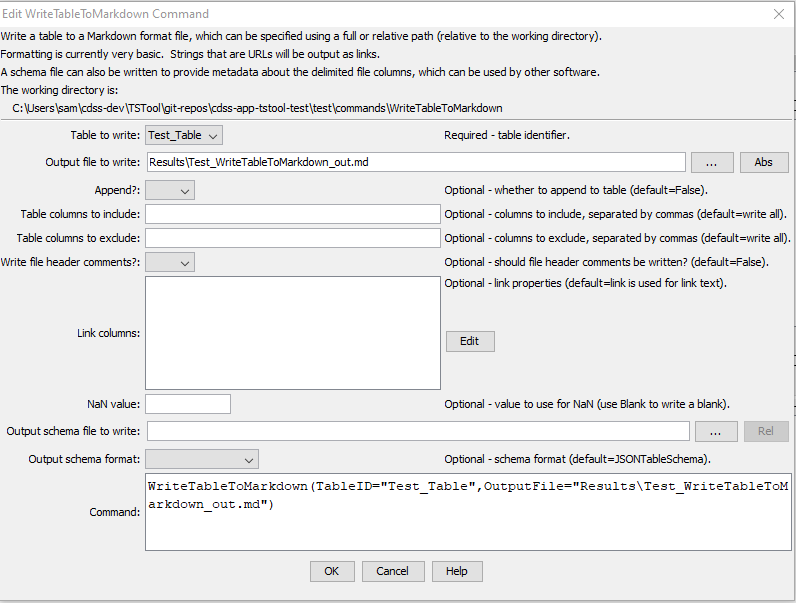
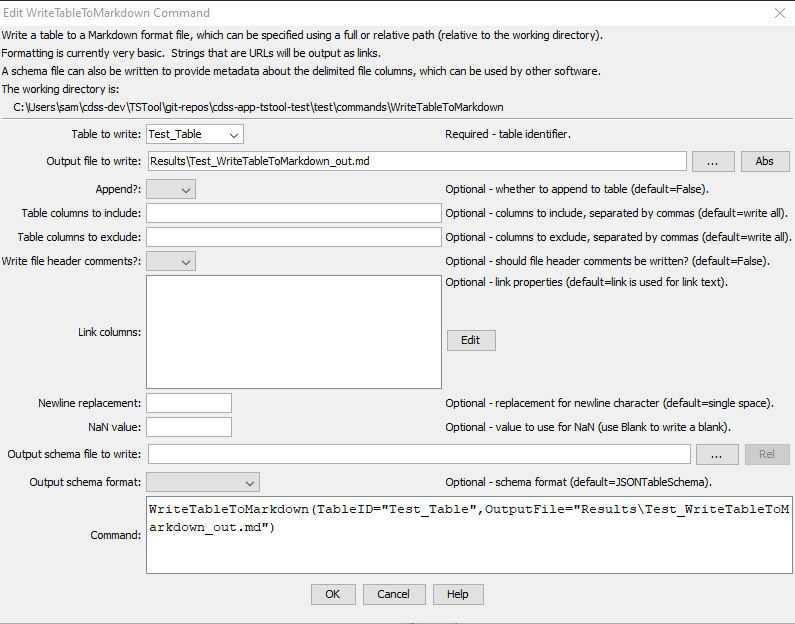
Update WriteTableToMarkdown documentation, issue #150
Also update release notes for some underlying enhancements and cleanup.

Changed region(s): [[0.0, 0.0, 1.0, 1.0], [0.0906, 0.5075, 0.1811, 0.5672]]

diff --git a/mkdocs-project/docs/getting-started/getting-started.md b/mkdocs-project/docs/getting-started/getting-started.md
@@ -136,7 +136,7 @@ Trying to use commands that depend on data connections that have not been initia
 **<p style="text-align: center;">
 TSTool At Startup, Waiting for Data Connections to be Initialized (<a href="../GUI_MainWait.png">see full-size image</a>)
 </p>**
- 
+
 The following figure illustrates the main TSTool interface after data connections are initialized.
 The interface is divided into three main areas:
 
@@ -181,7 +181,7 @@ To select time series, perform the following steps:
         The DateValue input type is the default.
         More specific input types (e.g., HydroBase) may be the default if enabled.
         See the appropriate data store or input type appendix for more information.<br><br>
-        Depending on the input type, some of the remaining selection choices described below may be disabled or limited.  
+        Depending on the input type, some of the remaining selection choices described below may be disabled or limited.
 2.  **Select the time series data type**.  Select the ***Data type*** (if appropriate for the input type).
     example, select ***Streamflow*** or ***Diversion*** if using a HydroBase input type.
     For some input types, the data type will be listed as ***Auto***,
@@ -285,7 +285,7 @@ A summary of the pop-up menu choices is as follows:
 Commands are numbered to simplify editing.
 The command list also includes left and right gutters to display icons that help with error handling.
 The following figure illustrates a command with an error (the first time series
-identifier has been edited to include an x, resulting in an invalid identifier). 
+identifier has been edited to include an x, resulting in an invalid identifier).
 
 **<p style="text-align: center;">
 ![Command List Illustrating Error](CommandListError.png)
@@ -526,6 +526,7 @@ Global properties should be used with care because they may impact multiple comm
 | `TSEnsembleResultsListSize` | The number of time series ensembles in results, which is useful to checking workflow results. | Set when processing time series ensembles. |
 | `TSResultsListSize` | The number of time series in results, which is useful to checking workflow results. | Set when processing time series. |
 | `TempDir` | Temporary directory (folder), using operating system path conventions, useful if a temporary file needs to be created in a workflow. | Set automatically for the operating system. |
+| `TempDirPosix` | Temporary directory (folder), using a POSIX convention (all forward slashes, no colon). | Set automatically for the operating system. |
 | `UserHomeDir` | The user's home directory (folder), using operating system path conventions. | Set automatically. |
 | `UserHomeDirPosix` | The user's home directory (folder), using POSIX path conventions (all slashes, no colon). | Set automatically. |
 | `UserHomeDirURL` | The user's home directory (folder), using URL path conventions. | Set automatically. |
@@ -754,7 +755,7 @@ This is useful when editing and troubleshooting commands.
 **<p style="text-align: center;">
 File / Properties Menu
 </p>**
- 
+
 The ***File / Properties / Commands Run*** menu item displays information from the
 last time that the commands were run, including global properties that impact results.
 
@@ -766,7 +767,7 @@ last time that the commands were run, including global properties that impact re
 Properties of the Last Commands Run (<a href="../Menu_File_PropertiesRun.png">see full-size image</a>)
 </p>**
 
-This information is useful for troubleshooting processing. 
+This information is useful for troubleshooting processing.
 The ***File / Properties / TSTool Session*** menu item displays information about the current TSTool session, as follows.
 
 **<p style="text-align: center;">
@@ -777,7 +778,7 @@ The ***File / Properties / TSTool Session*** menu item displays information abou
 TSTool Session Properties (<a href="../Menu_File_Properties_TSToolSession.png">see full-size image</a>)
 </p>**
 
-This information is useful for checking the TSTool configuration. 
+This information is useful for checking the TSTool configuration.
 Additional properties displays may be available depending on enabled input types.
 For example, the ***File / Properties / HydroBase*** menu item displays HydroBase properties,
 including the database that is being used, database version,
@@ -808,7 +809,7 @@ with the current setting being defined by the most recent selection:
 5.  The directory specified by ***File / Set Working Directory***.
 
 The menu item is provided to allow the working directory to be set before a command file has been saved (or opened).
- 
+
 ### File / Exit ###
 
 The ***File / Exit*** menu exits TSTool.
@@ -920,7 +921,7 @@ A visual difference program such as KDiff3 is required to be configured (see the
 ### View / Command File Source Diff ###
 
 The ***View / Command File Source Diff*** menu displays a visual differences of the current TSTool commands and
-command file source version specified by the `#@sourceUrl` [annotation comment](../command-ref/Comment.md).
+command file source version specified by the `#@sourceUrl` [annotation comment](../command-ref/Comment/Comment.md).
 If the commands have changed but have not been saved, the current commands are saved to a temporary file for the comparison.
 This tool is useful if it is desired to confirm the changes have been made in the local copy that are different from the source (remote) version.
 A visual difference program such as KDiff3 is required to be configured (see the [TSTool Configuration](../appendix-install/install.md#tstool-configuration) documentation).
@@ -1000,7 +1001,7 @@ The ***Commands(Table)*** menu provides commands for table processing.
 **<p style="text-align: center;">
 Commands(Table) Menu
 </p>**
- 
+
 Table commands are organized into the following categories:
 
 *   ***Create, Copy, Free Table*** – create, copy and free memory for tables
@@ -1077,7 +1078,7 @@ The time series can be viewed multiple times, using the same time series results
 **<p style="text-align: center;">
 Results Menu
 </p>**
- 
+
 Graphing time series results in slightly different viewing options being available,
 depending on the type of graph.
 Three views of time series are generally available: graph, summary, and table.
@@ -1104,6 +1105,7 @@ Results Menu Choices
 |***Graph – Point***|Display a graph using symbols but no connecting lines.  This is useful for data that have infrequent measurements.|
 |***Graph – Predicted Value***|Display a graph of data and the predicted values from regression.  First, a regression analysis is performed, similar to the analysis done for the XY-Scatter plot.  The original two time series are then plotted, additionally with the time series that would be generated using the regression results.  The predicted time series and the original time series will be the same where their periods overlap, with only the predicted time series shown outside of that period.|
 |***Graph – Predicted Value Residual***|Display a graph of data minus the predicted values from regression.  The predicted value residual graph performs the same analysis as the predicted value graph.  Where the original and predicted time series overlap, the difference is computed and plotted as a time series.  The resulting bar graph therefore shows the relative goodness of fit of the estimated time series.|
+|***Graph – Raster***|Display a raster (heat map) graph for the selected time series. The visualization format will depend on whether a single or multiple time series are selected. |
 |***Graph – XY-Scatter***|Display an XY-scatter plot for the selected time series.|
 |***Table***|Display a scrollable table for the selected time series.|
 |***Report – Summary (HTML)***|Display an HTML summary for selected time series using the default web browser.|
@@ -1115,7 +1117,7 @@ Results Menu Choices
 |***Select All for Output***|Select all the time series for output.|
 |***Deselect All***|Deselect all the time series.|
 |***Time Series Properties***|Display the time series properties dialog (see the TSView Time Series Viewing Tools appendix for a complete description of the properties interface).|
- 
+
 ## Tools Menu ##
 
 The ***Tools*** menu lists tools that control TSTool behavior or that require interaction,

diff --git a/mkdocs-project/docs/command-ref/WriteTableToDelimitedFile/WriteTableToDelimitedFile.md b/mkdocs-project/docs/command-ref/WriteTableToDelimitedFile/WriteTableToDelimitedFile.md
@@ -60,7 +60,7 @@ Command Parameters
 |`Delimiter`|Delimiter character to separate column values, must be a single character if specified |`,` (comma)|
 |`AlwaysQuoteDateTimes`|Indicates whether values in date/times columns should always be surrounded by double quotes:<ul><li>`False` – only quote date/times that contain the delimiter</li><li>`True` – always quote date/times</li></ul><br>Quoting may impact how date/times are handled in other programs, for example in Excel.|`False`|
 |`AlwaysQuoteStrings`|Indicates whether values in string columns should always be surrounded by double quotes:<ul><li>`False` – only quote strings that contain the delimiter</li><li>`True` – always quote strings</li></ul><br>An example of using `AlwaysQuoteStrings=True` is to quote identifiers that have a leading zero (e.g., `01234567`).  Not quoting may cause the values to be interpreted as integers when read from the delimited file.|`False`|
-|`NewlineReplacement`|The string to replace newlines in string values, necessary to prevent unexpected line breaks in output rows.  In order to handle newlines from various systems, the following patterns are replaced in sequence:<ul><li>`\r\n`</li><li>`\n`</li><li>`\r`</li></ul><br>The following special parameter values are recognized:<ul><li>`\t` – replace newline with tab</li><li>`\s` – replace newline with space|Do not replace newlines (file format may be unusable because of unexpected line breaks)|
+|`NewlineReplacement`|The string to replace newlines in string values, necessary to prevent unexpected line breaks in output rows.  In order to handle newlines from various systems, the following patterns are replaced in sequence:<ul><li>`\r\n`</li><li>`\n`</li><li>`\r`</li></ul><br>The following special parameter values are recognized:<ul><li>`\t` – replace newline with tab</li><li>`\s` – replace newline with space</li></ul>|Do not replace newlines (file format may be unusable because of unexpected line breaks)|
 |`NaNValue`|The value to write for `NaN` data values.  Specify the word `Blank` to write a blank (empty string).|`NaN`|
 |`OutputSchemaFile`|Name of schema file to write, useful to help other software understand contents of the delimited file.  See the `OutputSchemaFormat` parameter.  This is an experimental feature being evaluated to facilitate data exchange between software.|Do not create schema file.|
 |`OutputSchemaFormat`|Schema format, one of the following, output is limited but will be expanded in the future:<ul><li>`JSONTableSchema` – see [frictionlessdata schema](https://specs.frictionlessdata.io/table-schema/)</li><li>`GoogleBigQuery` – see [Google big query](https://cloud.google.com/bigquery/docs/reference/rest/v2/tables)</li></ul>| `JSONTableSchema`|

diff --git a/mkdocs-project/docs/command-ref/WriteTableToMarkdown/WriteTableToMarkdown.md b/mkdocs-project/docs/command-ref/WriteTableToMarkdown/WriteTableToMarkdown.md
@@ -57,6 +57,7 @@ Command Parameters
 |`ExcludeColumns`|The names of columns to **not** write, separated by commas.|Write all of the included columns.|
 |`WriteHeaderComments`|Indicates whether to write the file header comments, `True` or `False`. File header comments include information about the creator of the file.  Comments are written as HTML `<!-- -->` comment, which typically passes through software that converts Markdown to HTML for viewing.| `False`|
 |`LinkColumns` | Indicate columns that are links and specify the corresponding column containing the link text, using the format: `LinkColumn1:LinkTextColumn1,LinkColumn2:LinkTextColumn2,...` | Links are automatically detected and the link text is the same as the link URI. |
+|`NewlineReplacement`|The string to replace newlines in string values, necessary to prevent unexpected line breaks in output rows.  In order to handle newlines from various systems, the following patterns are replaced in sequence:<ul><li>`\r\n`</li><li>`\n`</li><li>`\r`</li></ul><br>Use `<br>` to replace newlines with the HTML line break element, which will typically pass through viewing software to display a line break within a table cell. The following special parameter values are recognized:<ul><li>`\t` – replace newline with tab</li><li>`\s` – replace newline with space</li></ul>| Space. |
 |`NaNValue`|The value to write for `NaN` data values.  Specify the word `Blank` to write a blank (empty string).|`NaN`|
 |`OutputSchemaFile`|Name of schema file to write, useful to help other software understand contents of the delimited file.  See the `OutputSchemaFormat` parameter.  This is an experimental feature being evaluated to facilitate data exchange between software.|Do not create schema file.|
 |`OutputSchemaFormat`|Schema format, one of the following, output is limited but will be expanded in the future:<ul><li>`JSONTableSchema` – see [frictionlessdata schema](https://specs.frictionlessdata.io/table-schema/)</li><li>`GoogleBigQuery` – see [Google big query](https://cloud.google.com/bigquery/docs/reference/rest/v2/tables)</li></ul>| `JSONTableSchema`|

diff --git a/mkdocs-project/docs/command-ref/DeleteTableRows/DeleteTableRows.md b/mkdocs-project/docs/command-ref/DeleteTableRows/DeleteTableRows.md
@@ -73,7 +73,7 @@ Command Parameters
 | **Tab** | **Parameter**&nbsp;&nbsp;&nbsp;&nbsp;&nbsp;&nbsp;&nbsp;&nbsp;&nbsp;&nbsp;&nbsp;&nbsp;&nbsp;&nbsp;&nbsp;&nbsp;&nbsp;&nbsp;&nbsp;&nbsp;&nbsp;&nbsp;&nbsp;&nbsp;&nbsp;&nbsp; | **Description** | **Default**&nbsp;&nbsp;&nbsp;&nbsp;&nbsp;&nbsp;&nbsp;&nbsp;&nbsp;&nbsp; |
 | --------|------|-----------------|----------------- |
 | ***All*** | `TableID`<br>**required**|The table identifier for the table to process. Can specify with `${Property}`.|None - must be specified.|
-| ***Condition*** | `Condition`|A condition to match rows to be deleted. Can use `${Property}` to specify row number.  See additional information in the [Tables appendix](../../appendix-tables/tables.md#condition-evaluation-for-rows).||
+| ***Condition*** | `Condition`|A condition to match rows to be deleted. Can use `${Property}` to specify row number.  See additional information in the [Tables appendix](../../processing/tables/tables.md#condition-evaluation-for-rows).||
 | ***Row Number*** |`DeleteRowNumbers`|The row number(s) to delete:<ul><li>comma-separated list of row numbers (1+)</li><li>`last` to delete the last row</li><li>`*` to delete all rows.</li></ul><br> Can use `${Property}`.||
 | | `First` | <ul><li>If a number `N` is specified, the first `N` rows will be deleted.</li><li>If a number `-N` is specified, all rows except the first `N` will be deleted.</li></ul> | |
 | | `Last` | <ul><li>If a number `N` is specified, the last `N` rows will be deleted.</li><li>If a number `-N` is specified, all rows except the last `N` will be deleted.</li></ul> | |

diff --git a/mkdocs-project/docs/command-ref/TableMath/TableMath.md b/mkdocs-project/docs/command-ref/TableMath/TableMath.md
@@ -78,7 +78,7 @@ Command Parameters
 | **Parameter**&nbsp;&nbsp;&nbsp;&nbsp;&nbsp;&nbsp;&nbsp;&nbsp;&nbsp;&nbsp;&nbsp;&nbsp;&nbsp;&nbsp;&nbsp;&nbsp;&nbsp;&nbsp;&nbsp;&nbsp;&nbsp;&nbsp;&nbsp;&nbsp;&nbsp;&nbsp; | **Description** | **Default**&nbsp;&nbsp;&nbsp;&nbsp;&nbsp;&nbsp;&nbsp;&nbsp;&nbsp;&nbsp; |
 | --------------|-----------------|----------------- |
 |`TableID`<br>**required**|The identifier for the table to process, can be specified with `${Property}`.|None – must be specified.|
-|`Condition`|A condition to match rows to be deleted. Can use `${Property}` to specify row number.  See additional information in the [Tables appendix](../../appendix-tables/tables.md#condition-evaluation-for-rows).|Condition or row number must be specified.|
+|`Condition`|A condition to match rows to be deleted. Can use `${Property}` to specify row number.  See additional information in the [Tables appendix](../../processing/tables/tables.md#condition-evaluation-for-rows).|Condition or row number must be specified.|
 |`DeleteRowNumbers`|The row number(s) to process as comma-separated list of row numbers, currently limited to:</li><li>`first` - process the first row in the table</li><li>`last` - process the last row in the table</li></ul><br> Can use `${Property}`.| Process all rows.|
 |`Input1`<br>**required**|First input column name, can be specified with `${Property}`.|None – must be specified.|
 |`Operator`<br>**required**|The operator to be applied as follows:<br>`Input1 Operator Input2 = Output`<br>For example: `Input1 * Input2 = Output`|None – must be specified.|

diff --git a/mkdocs-project/docs/appendix-release-notes/release-notes-14.md b/mkdocs-project/docs/appendix-release-notes/release-notes-14.md
@@ -47,12 +47,22 @@ Issues may also be included in other repositories that are TSTool components.
 
 ## Changes in Version 14.9.7 ##
 
-**Maintenance release to improve graph annotations.**
+**Maintenance release to improve graph and table processing.**
 
+*   ![change](change.png) [14.9.7] Improve the "find" tool:
+    +   The tool is used to find substrings in lists, for example, commands and time series.
+    +   The tool now explicitly handled case dependent/independent searches.
+    +   The tool now allows selecting items in the found list and then selecting those items in the original list.
+        This provides additional control, for example, when selecting time series to graph.
+*   ![change](change.png) [14.9.7] Enhance the processor:
+    +   Add the `TempDirPosix` processor property.
+*   ![change](change.png) [14.9.7] Update the [`WriteTableToMarkdown`](../command-ref/WriteTableToMarkdown/WriteTableToMarkdown.md) command:
+    +   Add the `NewlineReplacement` command parameter to handle line breaks embedded in table cell data.
 *   ![bug](bug.png) [14.9.7] Fix bugs and limitations in graphs:
     +   Fix so that an annotation data value that is a date/time string is automatically parsed.
     +   Fix so that expanding a command parameter in an annotation gracefully handles
         the case when the closing `}`-bracket of an annotation is not found.
+    +   Enable mouse tracking for stacked area graphs.
 
 ## Changes in Version 14.9.6 ##
 

diff --git a/mkdocs-project/docs/appendix-release-notes/release-notes.md b/mkdocs-project/docs/appendix-release-notes/release-notes.md
@@ -34,7 +34,7 @@ TSTool Version History Summary (most current at top)
 
 |**TSTool Version(s)**&nbsp;&nbsp;&nbsp;&nbsp;&nbsp;&nbsp;&nbsp;&nbsp;&nbsp;&nbsp;&nbsp;&nbsp;&nbsp;&nbsp;&nbsp;&nbsp;&nbsp;&nbsp;&nbsp;&nbsp;|**Summary of Major Changes in Version**|**Release Date**|
 |--|--|--|
-|[14.9.7](release-notes-14.md)|Maintenance release to improve graph annotations. | 2024-08-26 |
+|[14.9.7](release-notes-14.md)|Maintenance release to improve graph and table processing. | 2024-08-26 |
 |[14.9.6](release-notes-14.md)|Maintenance release to improve complex workflow automation and maintenance. | 2024-08-19 |
 |[14.9.5](release-notes-14.md)|Maintenance release to improve complex workflow automation and maintenance. | 2024-04-29 |
 |[14.9.4](release-notes-14.md)|Maintenance release to improve table comparison and enable command notifications. | 2024-04-15 |

diff --git a/mkdocs-project/docs/processing/tables/tables.md b/mkdocs-project/docs/processing/tables/tables.md
@@ -56,8 +56,8 @@ Tables have the following design features:
 Some commands provide a `Condition` parameter to limit which rows will be processed by the command.
 For example, see:
 
-*   [`DeleteTableRows`](../command-ref/DeleteTableRows/DeleteTableRows.md)
-*   [`TableMath`](../command-ref/TableMath/TableMath.md)
+*   [`DeleteTableRows`](../../command-ref/DeleteTableRows/DeleteTableRows.md)
+*   [`TableMath`](../../command-ref/TableMath/TableMath.md)
 
 The `Condition` parameter is restricted to a simple format and comparison.
 More complex evaluations may be implemented over time.
@@ -117,4 +117,4 @@ Left-click on a table to view.  Right-click to view table properties and find ta
 
 ## Examples ##
 
-See the ***Examples*** section of each table commands's documentation.
+See the ***Examples*** section of each table command's documentation.

diff --git a/mkdocs-project/docs/introduction/introduction.md b/mkdocs-project/docs/introduction/introduction.md
@@ -85,7 +85,7 @@ Chapter 7 – Processing - automate data processing for the following:
 
 [Appendix - Running TSTool in Various Modes](../appendix-running/running.md) - summarizes how to run TSTool in various modes
 
-[Appendix - Tables](../appendix-tables/tables.md) - provides general information about tables
+[Appendix - Tables](../processing/tables/tables.md) - provides general information about tables
 
 [Appendix - TSView Time Series Viewing Tools](../appendix-tsview/tsview.md) - provides a general reference for time series viewing features.  These features are used throughout TSTool.
 
